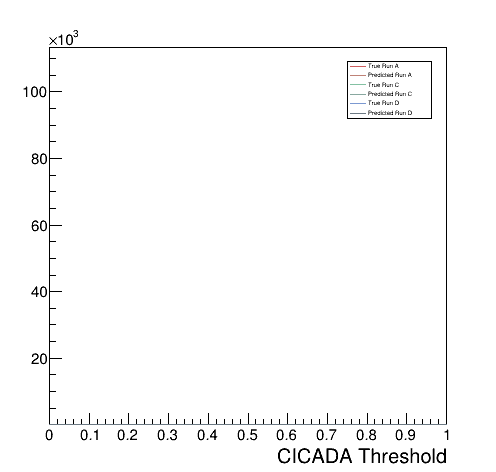
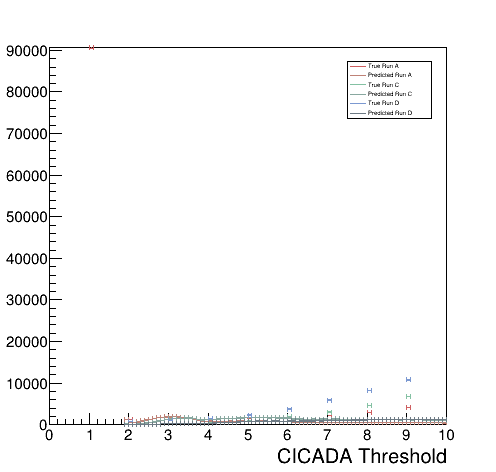
working pileup v prediction script

diff --git a/genScripts/histpileupFormat.py b/genScripts/histpileupFormat.py
@@ -62,7 +62,7 @@ for i in tqdm(range(3)):
     hist.SetLineColor(int(lineColors[i]))
     hist.SetMarkerColor(int(lineColors[i]))
     hist.SetMarkerStyle(8)
-    hist.SetMarkerSize(0.5)
+    hist.SetMarkerSize(0.2)
     hist.SetTitle("")
     hist.GetXaxis().SetTitle("CICADA Threshold")
     hist.GetXaxis().SetTitleSize(0.045)
@@ -70,17 +70,17 @@ for i in tqdm(range(3)):
     hist.GetYaxis().SetTitleSize(0.045)
     hist.GetYaxis().SetTitleOffset(0.9)
     #xMax = hist.GetXaxis().GetXmax() * 1.75
-    yMax = hist.GetMaximum() * 1.25
+    yMax = hist.GetMaximum()
     hist.SetMaximum(yMax)
     #hist.GetXaxis().SetLimits(1, xMax)
-    hist.SetMinimum(0.1)
+    hist.SetMinimum(0)
     hists.append(hist)
 
     
     hist2.SetLineColor(int(lineColors2[i]))
     hist2.SetMarkerColor(int(lineColors2[i]))
     hist2.SetMarkerStyle(8)
-    hist2.SetMarkerSize(0.5)
+    hist2.SetMarkerSize(0.2)
     hist2.SetTitle("")
     hist2.GetXaxis().SetTitle("CICADA Threshold")
     hist2.GetXaxis().SetTitleSize(0.045)
@@ -88,24 +88,28 @@ for i in tqdm(range(3)):
     hist2.GetYaxis().SetTitleSize(0.045)
     hist2.GetYaxis().SetTitleOffset(0.9)
     #xMax = hist.GetXaxis().GetXmax() * 1.75
-    yMax2 = hist2.GetMaximum() * 1.25
+    yMax2 = hist2.GetMaximum()
     hist2.SetMaximum(yMax2)
     #hist.GetXaxis().SetLimits(1, xMax)
-    hist2.SetMinimum(0.1)
+    hist2.SetMinimum(0)
     hists2.append(hist2)
-
-
-    hists[i].GetXaxis().SetRangeUser(0.01,1.0)
-    hists2[i].GetXaxis().SetRangeUser(0.01,1.0)
+    
+    # hists.append(hist2)
+    hists[i].GetXaxis().SetRangeUser(0.01,10.0)
+    hists2[i].GetXaxis().SetRangeUser(0.01,10.0)
 
     if i == 0:
         print("First Histogram")
         hists[i].Draw("E1")
+        # hists[i].Draw("HIST")
         hists2[i].Draw("SAME E1")
+        # hists2[i].Draw("SAME HIST")
     else:
         print("Duplicate Histograms")
         hists[i].Draw("SAME E1")
+        # hists[i].Draw("SAME HIST")
         hists2[i].Draw("SAME E1")
+        # hists2[i].Draw("SAME HIST")
     leg.AddEntry(hists[i], "True Run " + runs[i], "l")
     leg.AddEntry(hists2[i], "Predicted Run " + runs[i], "l")
 
